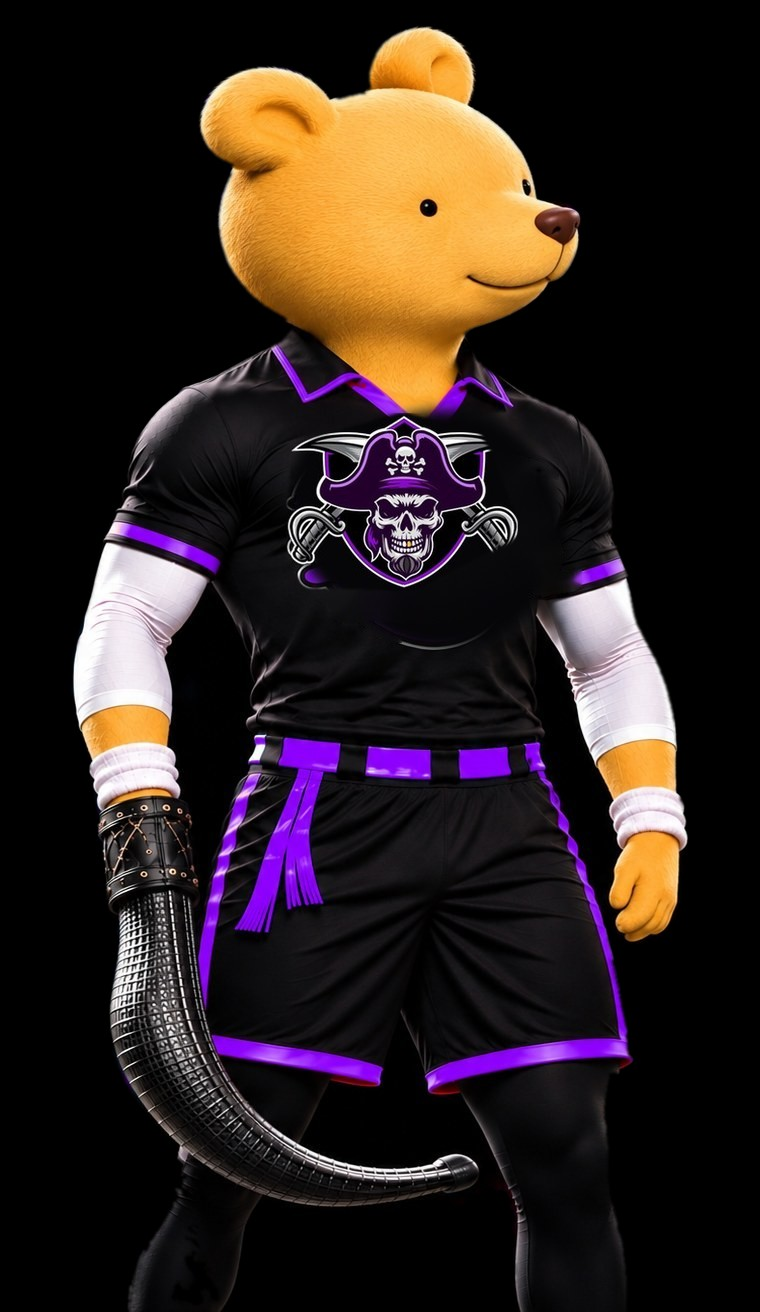
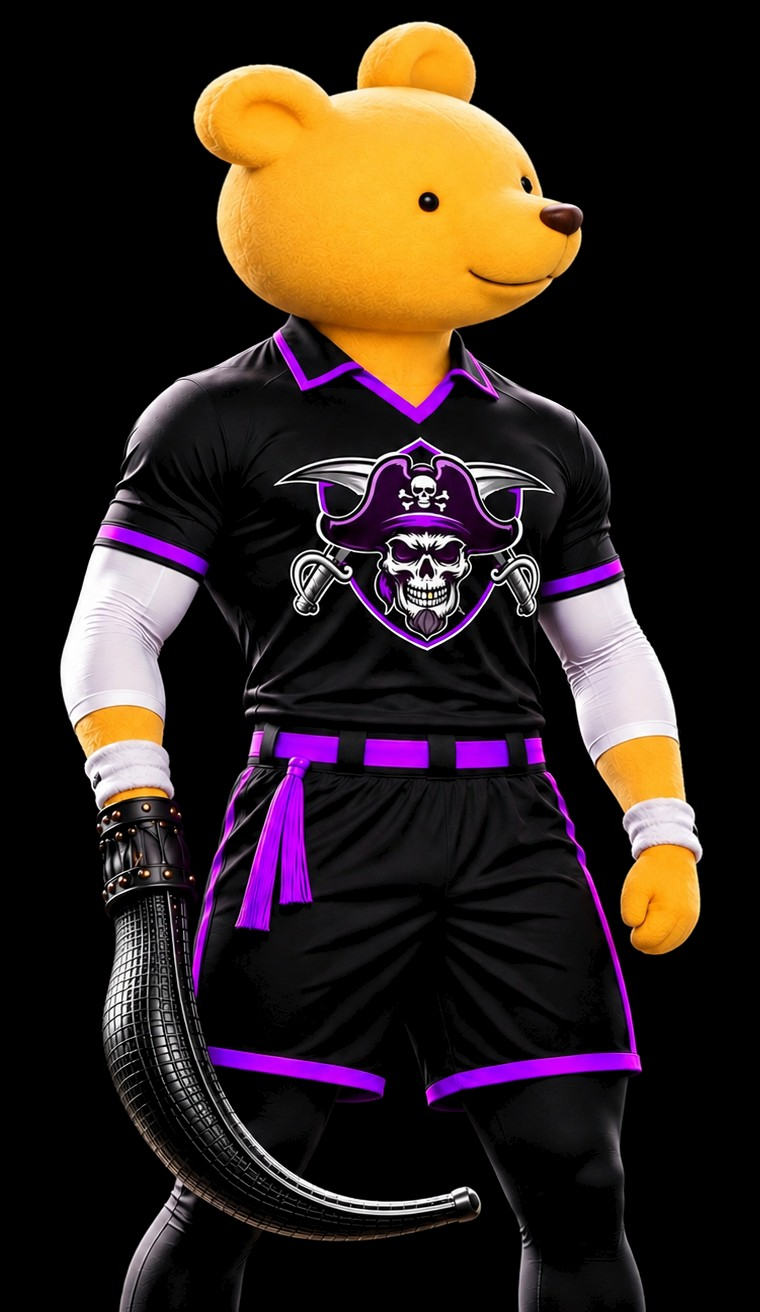
1926 Pooh in Booties: now the uploaded picture
Claude-Session: https://claude.ai/code/session_01RXYkimbn35SjoihCfai7fS

diff --git a/index.html b/index.html
@@ -18,7 +18,7 @@ img { max-width: 100%; }
 [hidden] { display: none !important; }
 </style>
 <script>
-window.FL_BUILD = "20261124161525";
+window.FL_BUILD = "20261124164438";
 window.FL_RELAY = "wss://relay-production-5e78c1a2.up.railway.app/ws";
 window.FL_STATS = "https://relay-production-5e78c1a2.up.railway.app/t";
 window.FL_FEEDBACK = "https://relay-production-5e78c1a2.up.railway.app/feedback";
@@ -1570,7 +1570,7 @@ window.FLFeedback = (function () {
   var PROMO = window.FL_PROMO || null;
   if (PROMO && !PROMO._v) {                                       // the pictures were redone without smoke: a new address so no phone shows a saved old one
     PROMO._v = 1;
-    var bump = function (o) { if (o) for (var k in o) { if (typeof o[k] === 'string') { if (/\.jpg$/.test(o[k])) o[k] += '?s=5'; } else if (o[k] && typeof o[k] === 'object') bump(o[k]); } };
+    var bump = function (o) { if (o) for (var k in o) { if (typeof o[k] === 'string') { if (/\.jpg$/.test(o[k])) o[k] += '?s=6'; } else if (o[k] && typeof o[k] === 'object') bump(o[k]); } };
     (PROMO.people || []).forEach(function (w) { bump(w.art); bump(w.solo); }); bump(PROMO.blank);
   }                           // a limited-edition match-up page: its own landing screen, no setup page
   function save() { if (PROMO) return; try { localStorage.setItem(STORE, JSON.stringify(cfg)); } catch (e) { /* ignore */ } }
@@ -2247,8 +2247,8 @@ window.FLFeedback = (function () {
       '</section>' +
       '<section class="wz-step" id="wz6" hidden>' + wzTop(4, 'Limited Edition Skins') +
         '<p class="wz-sub">Tap a skin to purchase. $0.99 per month each.</p><div class="wz-skins">' +
-        [['1928 Mickey', 'kv-m-l-14.jpg'], ['1926 Pooh', 'bh-b-l-14.jpg'], ['1929 Popeye', 'pp-b-l-14.jpg'], ['Santa', 'sx-s-l.jpg'], ['The Grinch', 'sx-g-l.jpg']].map(function (k) { return '<button type="button" class="wz-skin" data-wz="skin" data-skin="' + k[0] + '"><img src="' + k[1] + '?s=5" alt=""><b>' + k[0] + '</b></button>'; }).join('') +
-        '<button type="button" class="wz-skin wz-you" data-wz="avatar"><span class="wz-youart"><img src="kh-blank-l-14.jpg?s=5" alt=""><i>?</i></span><b>Your Avatar</b></button>' +
+        [['1928 Mickey', 'kv-m-l-14.jpg'], ['1926 Pooh', 'bh-b-l-14.jpg'], ['1929 Popeye', 'pp-b-l-14.jpg'], ['Santa', 'sx-s-l.jpg'], ['The Grinch', 'sx-g-l.jpg']].map(function (k) { return '<button type="button" class="wz-skin" data-wz="skin" data-skin="' + k[0] + '"><img src="' + k[1] + '?s=6" alt=""><b>' + k[0] + '</b></button>'; }).join('') +
+        '<button type="button" class="wz-skin wz-you" data-wz="avatar"><span class="wz-youart"><img src="kh-blank-l-14.jpg?s=6" alt=""><i>?</i></span><b>Your Avatar</b></button>' +
         '</div></section>' +
       '<div class="wz-pop" id="wzAvatar" hidden><form class="wz-popcard" id="wzAvatarForm" autocomplete="off"><h3>Your Avatar</h3>' +
         '<p class="wz-atxt">Send us two head shots, a front view and a side view, and we custom build an avatar of you to play in the game.</p>' +

diff --git a/johan-vs-gorka.html b/johan-vs-gorka.html
@@ -18,7 +18,7 @@ img { max-width: 100%; }
 [hidden] { display: none !important; }
 </style>
 <script>
-window.FL_BUILD = "20261124161525";
+window.FL_BUILD = "20261124164438";
 window.FL_RELAY = "wss://relay-production-5e78c1a2.up.railway.app/ws";
 window.FL_STATS = "https://relay-production-5e78c1a2.up.railway.app/t";
 window.FL_FEEDBACK = "https://relay-production-5e78c1a2.up.railway.app/feedback";
@@ -1570,7 +1570,7 @@ window.FLFeedback = (function () {
   var PROMO = window.FL_PROMO || null;
   if (PROMO && !PROMO._v) {                                       // the pictures were redone without smoke: a new address so no phone shows a saved old one
     PROMO._v = 1;
-    var bump = function (o) { if (o) for (var k in o) { if (typeof o[k] === 'string') { if (/\.jpg$/.test(o[k])) o[k] += '?s=5'; } else if (o[k] && typeof o[k] === 'object') bump(o[k]); } };
+    var bump = function (o) { if (o) for (var k in o) { if (typeof o[k] === 'string') { if (/\.jpg$/.test(o[k])) o[k] += '?s=6'; } else if (o[k] && typeof o[k] === 'object') bump(o[k]); } };
     (PROMO.people || []).forEach(function (w) { bump(w.art); bump(w.solo); }); bump(PROMO.blank);
   }                           // a limited-edition match-up page: its own landing screen, no setup page
   function save() { if (PROMO) return; try { localStorage.setItem(STORE, JSON.stringify(cfg)); } catch (e) { /* ignore */ } }
@@ -2247,8 +2247,8 @@ window.FLFeedback = (function () {
       '</section>' +
       '<section class="wz-step" id="wz6" hidden>' + wzTop(4, 'Limited Edition Skins') +
         '<p class="wz-sub">Tap a skin to purchase. $0.99 per month each.</p><div class="wz-skins">' +
-        [['1928 Mickey', 'kv-m-l-14.jpg'], ['1926 Pooh', 'bh-b-l-14.jpg'], ['1929 Popeye', 'pp-b-l-14.jpg'], ['Santa', 'sx-s-l.jpg'], ['The Grinch', 'sx-g-l.jpg']].map(function (k) { return '<button type="button" class="wz-skin" data-wz="skin" data-skin="' + k[0] + '"><img src="' + k[1] + '?s=5" alt=""><b>' + k[0] + '</b></button>'; }).join('') +
-        '<button type="button" class="wz-skin wz-you" data-wz="avatar"><span class="wz-youart"><img src="kh-blank-l-14.jpg?s=5" alt=""><i>?</i></span><b>Your Avatar</b></button>' +
+        [['1928 Mickey', 'kv-m-l-14.jpg'], ['1926 Pooh', 'bh-b-l-14.jpg'], ['1929 Popeye', 'pp-b-l-14.jpg'], ['Santa', 'sx-s-l.jpg'], ['The Grinch', 'sx-g-l.jpg']].map(function (k) { return '<button type="button" class="wz-skin" data-wz="skin" data-skin="' + k[0] + '"><img src="' + k[1] + '?s=6" alt=""><b>' + k[0] + '</b></button>'; }).join('') +
+        '<button type="button" class="wz-skin wz-you" data-wz="avatar"><span class="wz-youart"><img src="kh-blank-l-14.jpg?s=6" alt=""><i>?</i></span><b>Your Avatar</b></button>' +
         '</div></section>' +
       '<div class="wz-pop" id="wzAvatar" hidden><form class="wz-popcard" id="wzAvatarForm" autocomplete="off"><h3>Your Avatar</h3>' +
         '<p class="wz-atxt">Send us two head shots, a front view and a side view, and we custom build an avatar of you to play in the game.</p>' +
